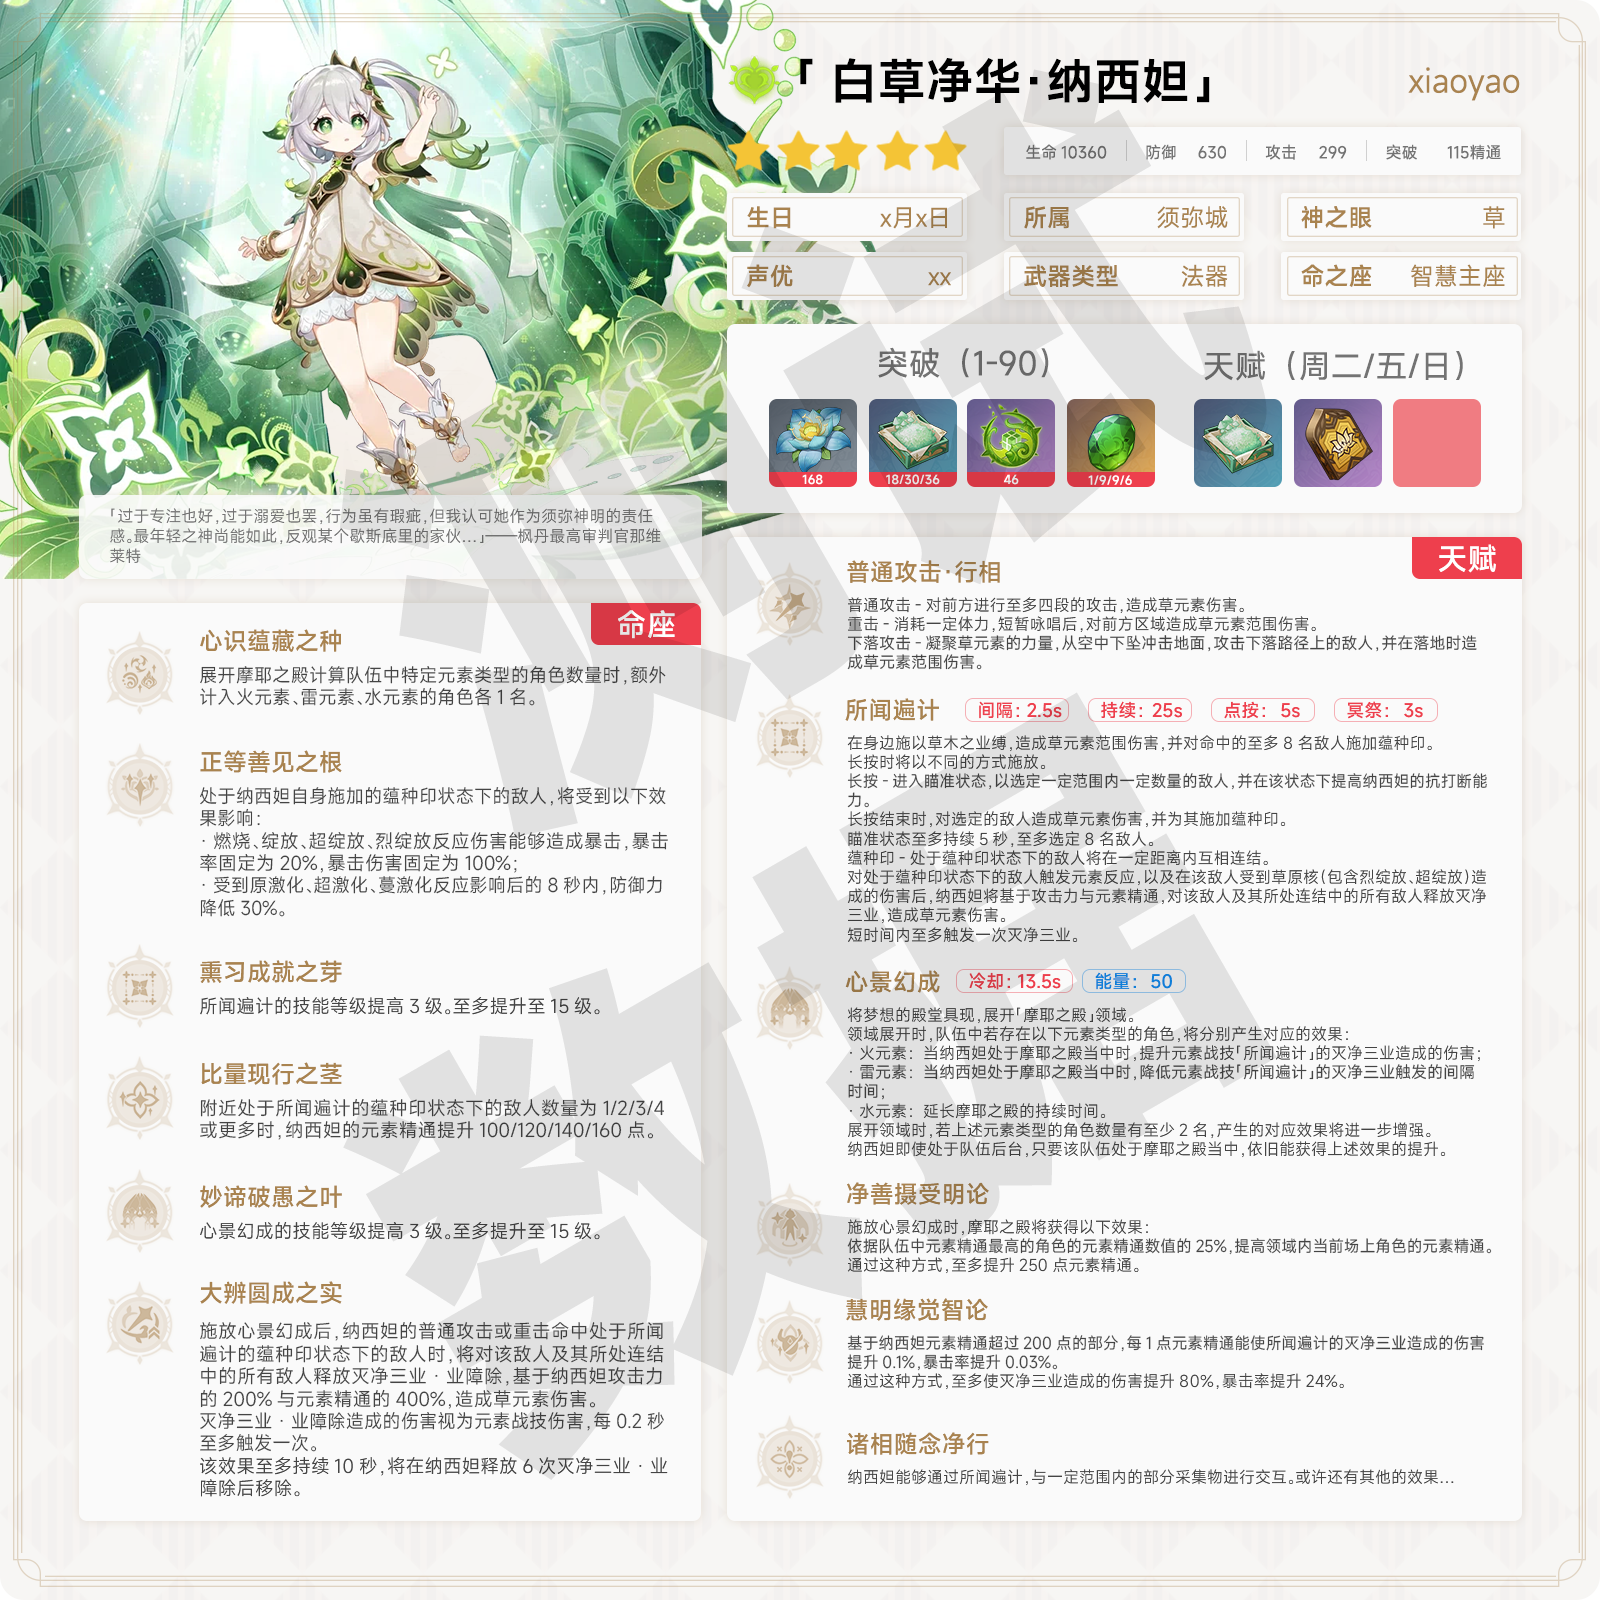
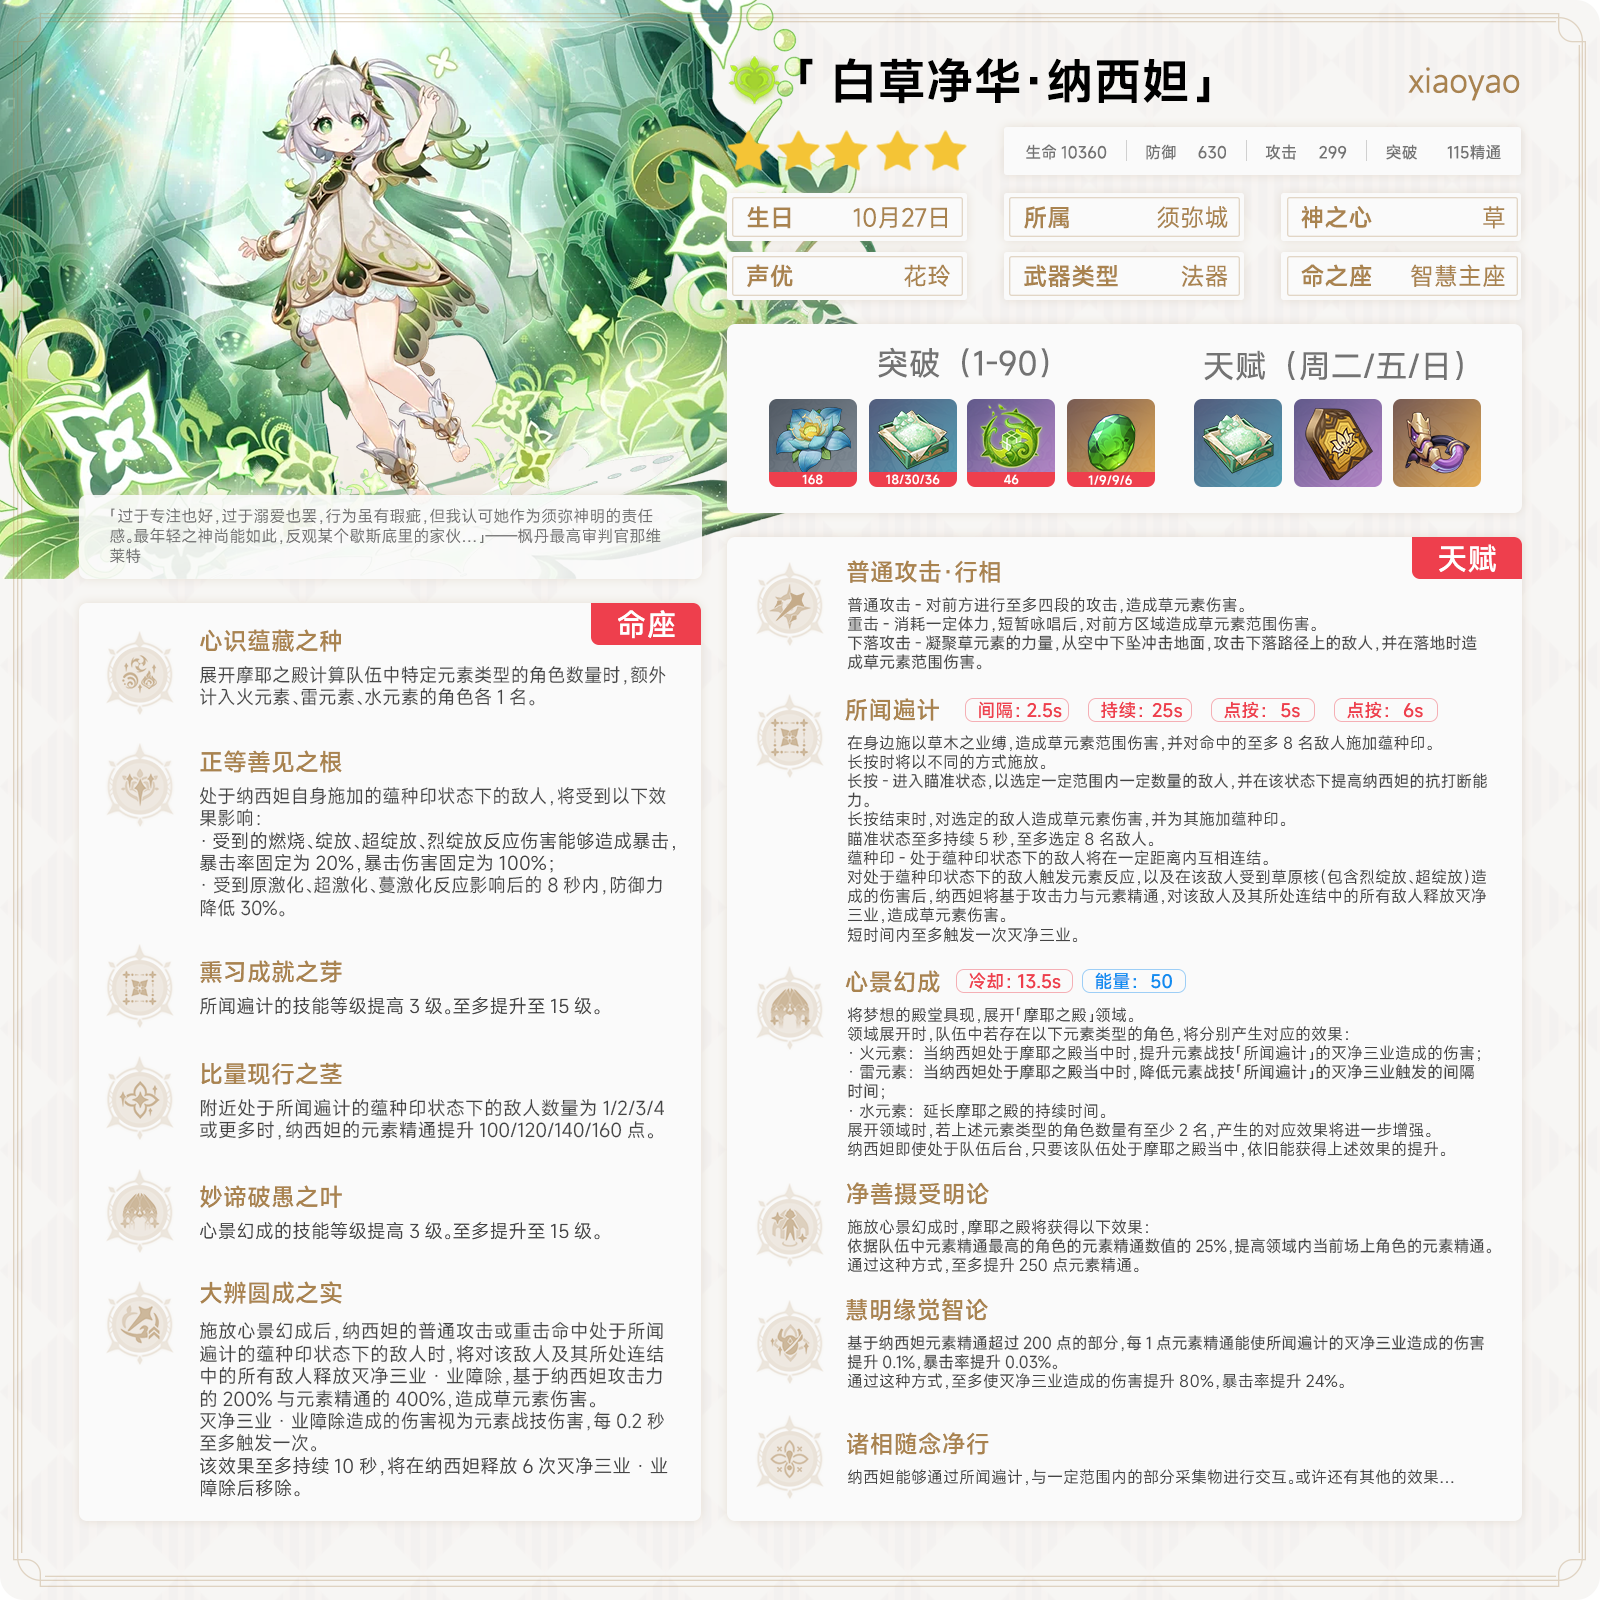
更新纳西妲图鉴，新增珐露珊、流浪者测试图鉴，以及一些小改动

diff --git a/CHANGELOG.md b/CHANGELOG.md
@@ -3,7 +3,7 @@
 * 更新卡池信息，新增**千夜浮梦**，每日素材更新
 * 新增**莱依拉**图鉴(测试)
 * 更新一些资源
-* 一些小改动
+* 更新**纳西妲图鉴**，新增**珐露珊**、**流浪者**测试图鉴，以及一些小改动
 
 # 2.3.0
 
